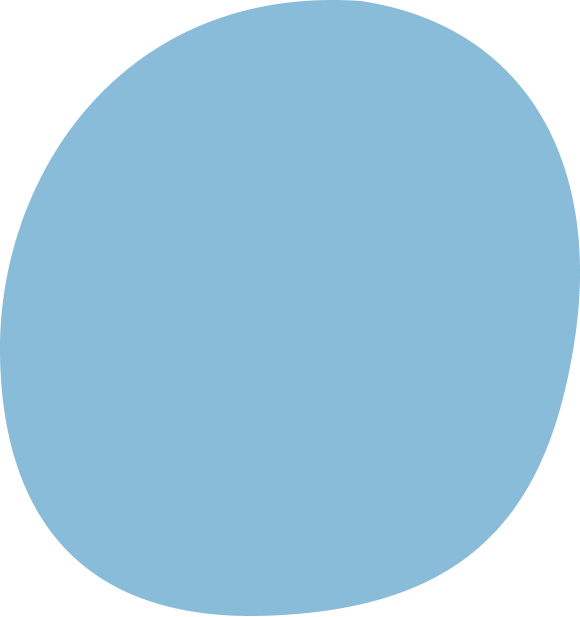
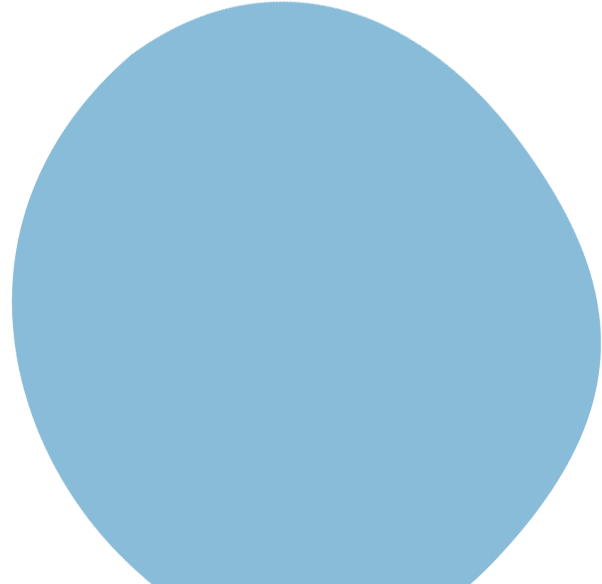
"Contact Me" reworked Phone- & Email-Links

Changed region(s): [[0.0, 0.0, 1.0, 1.0]]

diff --git a/src/app/contact-me/contact-me.ts b/src/app/contact-me/contact-me.ts
@@ -2,12 +2,6 @@ import { Component } from '@angular/core';
 
 let checkbox:string = '/assets/checkbox/checkbox-default.png';
 
-interface Contacts{
-  icon:string,
-  info:string | number,
-  highlight:boolean
-}
-
 let nameChecked:boolean = false;
 let emailChecked:boolean = false;
 let messageChecked:boolean = false;
@@ -22,19 +16,6 @@ let boxChecked:boolean = false;
 export class ContactMe {
 
   btnCondition:string = '/assets/checkbox/checkbox-default.png';
-
-  contacts:Contacts[]=[
-    {
-      icon:'/assets/icons/Icons_email.png',
-      info:'E-Mail: [email redacted]',
-      highlight:false
-    },
-    {
-      icon:'/assets/icons/Icons_phone.png',
-      info:'Tel: [phone redacted]',
-      highlight:false
-    },
-  ]
 
   checkBox(){
     if (boxChecked == false) {

diff --git a/src/app/contact-me/contact-me.scss b/src/app/contact-me/contact-me.scss
@@ -80,6 +80,24 @@
 .content-box{
     width: 445px;
     height: 80px;
+    &__email{
+        height: 30px;
+        background-image: url(/assets/icons/links/Enail_default.png);
+        background-repeat: no-repeat;
+        background-size: contain;
+        &:hover{
+            background-image: url(/assets/icons/links/Enail_hover.png);
+        }
+    }
+    &__tel{
+        height: 30px;
+        background-image: url(/assets/icons/links/Tel_default.png);
+        background-repeat: no-repeat;
+        background-size: contain;
+        &:hover{
+            background-image: url(/assets/icons/links/Tel_hover.png);
+        }
+    }
 }
 .relative{
     margin-top: 32px;

diff --git a/src/app/contact-me/contact-me.html b/src/app/contact-me/contact-me.html
@@ -1,10 +1,4 @@
-<head>
-    <script defer src="./contact-me.ts"></script>
-</head>
-
-
 <section class="contact-container">
-
     <section class="column gap nav-bar-padding" id="contact-me">
         <div class="contact-header gap">
             <div></div>
@@ -18,12 +12,8 @@
                 <p class="font-b color-basic">Placeholder text ...</p>
             </div>
             <div class="content-box">
-                @for (contact of contacts; track $index) {
-                    <div class="contact-data padding">
-                        <img src="{{contact.icon}}" alt="">
-                        <p>{{contact.info}}</p>
-                    </div>
-                }
+                <div class="content-box__email"></div>
+                <div class="content-box__tel"></div>
             </div>
         </section>
         <section class="contact-base">